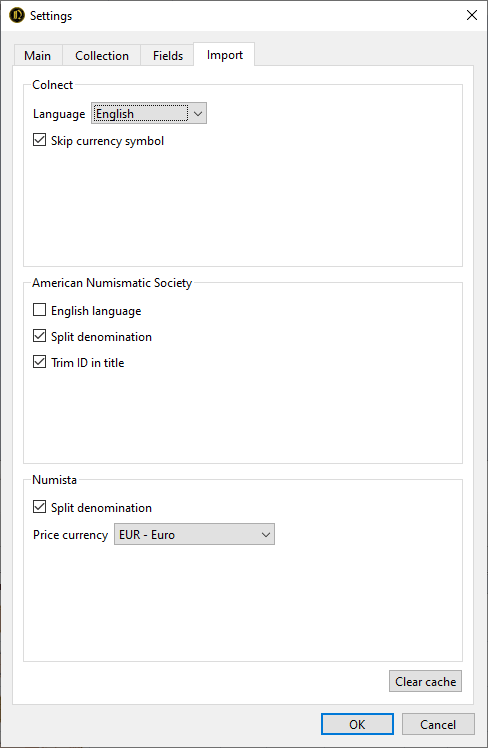
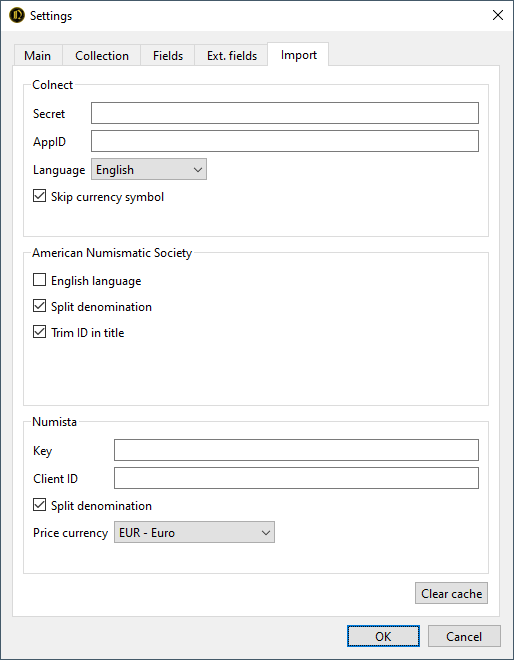
up

diff --git a/open-numismat/manual.html b/open-numismat/manual.html
@@ -518,6 +518,10 @@ Collection specific settings (stored for each collection file):
 
 <h3>8.4 Import</h3>
 <p><img src="/images/settingsImport.png" alt="Settings dialog Import section screenshot"></p>
+<h4>Colnect</h4>
+<p><samp>Secret</samp>, <samp>AppID</samp> are CAPI keys for importing data from Colnect. You can request them on <a href="https://colnect.com/capi">Colnect</a>; otherwise, leave these fields blank to use the standard application keys.
+<h4>Numista</h4>
+<p><samp>Key</samp>, <samp>Client ID</samp> are API keys for importing data from Numista. You can request them on <a href="https://numista.com/api/index.php">Numista</a>; otherwise, leave these fields blank to use the standard application keys.
 
 <h2 id="sec9">9 Image Editor</h2>
 <p>OpenNumismat has a built-in Image Editor (main project is <a href="https://github.com/OpenNumismat/ImageEditor">https://github.com/OpenNumismat/ImageEditor</a>), which can be enabled from Settings.
@@ -528,7 +532,7 @@ Collection specific settings (stored for each collection file):
 <h4>Features</h4>
 <ul>
 <li>Supports popular image formats: JPEG, PNG, BMP, TIFF, GIF, WebP</li>
-<li>Capture a photo from webcam (for better results try <a href="https://reincubate.com/camo/">Camo</a>)</li>
+<li>Capture a photo from webcam (for better results try <a href="https://reincubate.com/camo/">Camo</a>) or USB microscope</li>
 <li>Image editing tools: resize, rotate, crop (rectangle, ellipse, perspective transformation)</li>
 <li>Remove background with <a href="https://github.com/danielgatis/rembg">rembg</a></li>
 <li>Up to 10 Undo/Redo actions</li>

diff --git a/open-numismat/index.html b/open-numismat/index.html
@@ -163,7 +163,6 @@ Main features
   </ul>
   <li>Supported languages: English, Russian, German, French, Ukrainian, Spanish, Hungarian, Portuguese, Greek, Czech, Italian, Catalan, Dutch, Bulgarian, Latvian, Swedish, Persian</li>
   <li>Cross-platform: Windows, Linux, macOS and Android. <a href="https://opennumismat.github.io/OpenNumismatWeb/">OpenNumismat Web</a> for any browser, including mobile (iPhone, Android). Also an Android app. Available Server mode for browsing local files when selfhosted.</li>
-  <li>Does not require additional software to work with a database</li>
   <li><a href="manual.html">Detailed user manual</a></li>
   <li>Suitable for other collectibles, like <a href="stamps.html">stamps</a>, banknotes, <a href="postcards.html">postcards</a>, badges, scale models. And also for organizing a home inventory</li>
 </ul>
